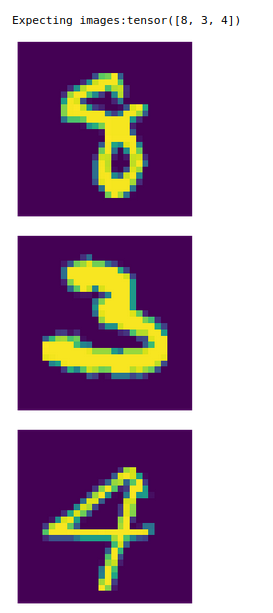
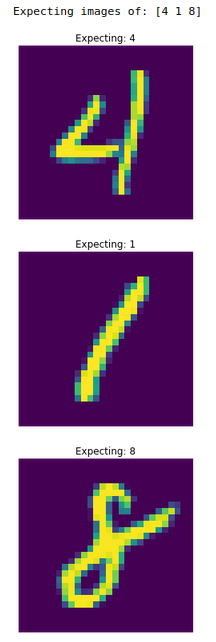
improve preview images code

diff --git a/tutorial-mnist.md b/tutorial-mnist.md
@@ -89,15 +89,25 @@ In order to get a better understanding of what the data looks like, we can exami
 ```python
 import matplotlib.pyplot as plt
 
-for sample in trainset:
-    # uncomment the following line to see the raw data
-    #print(f"raw images:\n{sample[0]}")
-    print(f"\nExpecting images:{sample[1]}")
-    for data in sample[0]:
-        plt.imshow(data[0].view(28,28))
-        plt.axis('off')
-        plt.show()
-    break
+# get one iteration of the batch
+sample = next(iter(trainset))
+# pull out the image tensor
+images = sample[0]
+# pull out the labels tensor
+labels = sample[1]
+
+# you can uncomment the following lines to get a better feel for the data
+# this is the whole sample
+#print(sample)
+# this is just the raw image data
+#print(f"raw images {images}")
+# this is the tensor containing the labels
+print(f"Expecting images of: {labels.numpy()}")
+for i, image in enumerate(images):
+    plt.axis('off')
+    plt.title(f"Expecting: {labels[i].item()}")
+    plt.imshow(image.view(28,28))
+    plt.show()
 ```
 
 The code above will print the contents of the 3 images we are pulling from the trainset. Note that the images will be different every time this is run since we shuffle the trainset every time we pull from it. It should look something like:
